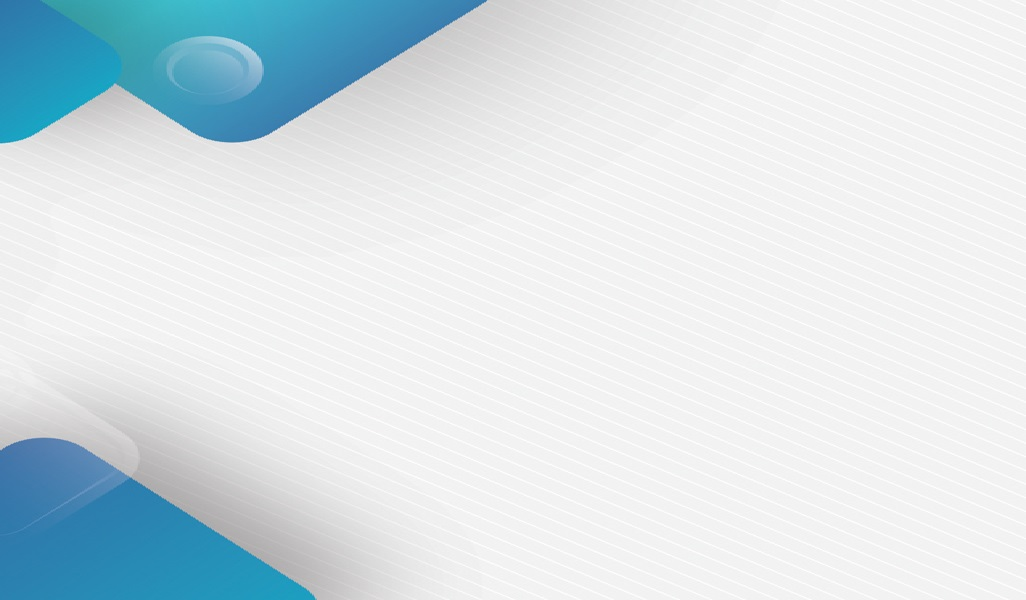
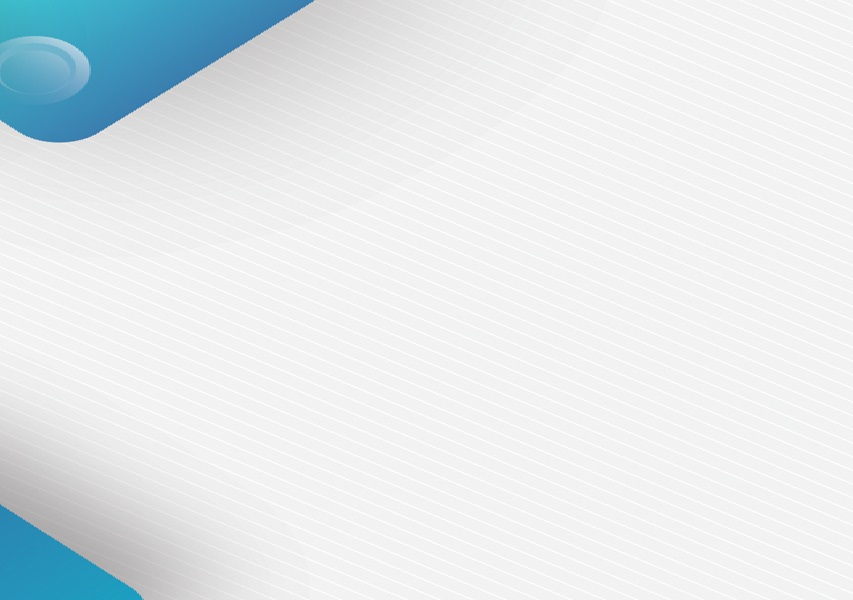
05.调整背景图

Changed region(s): [[0.0, 0.66, 0.3962, 1.0], [0.0, 0.0, 0.4877, 0.24]]

diff --git a/css/main.css b/css/main.css
@@ -55,7 +55,7 @@
 }
 
 .home {
-    background-image: url("../image/bg2.png");
+    background-image: url("../image/bg2.jpg");
     /* 横向拉伸背景图 */
     background-size: 100% 100%;
     background-repeat: no-repeat;
